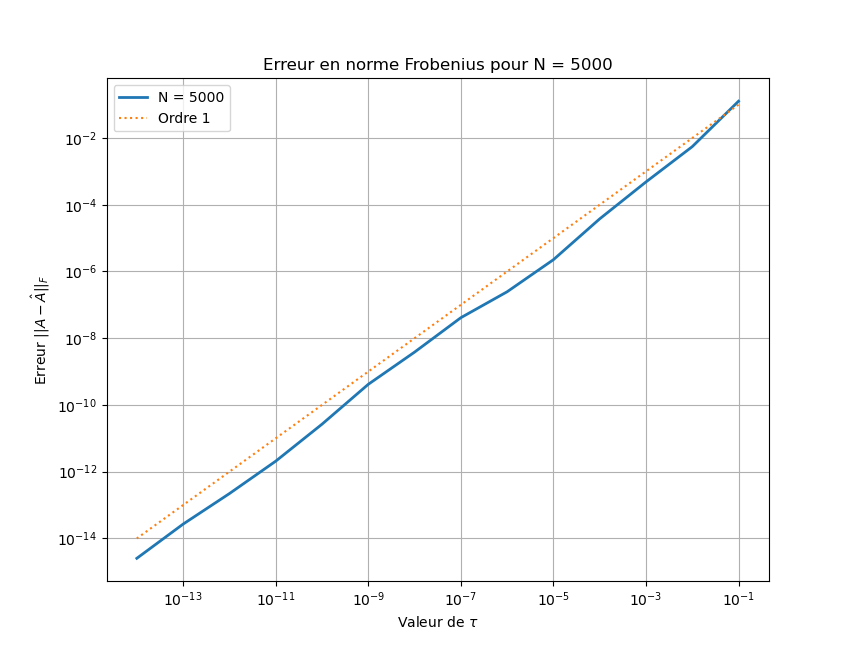
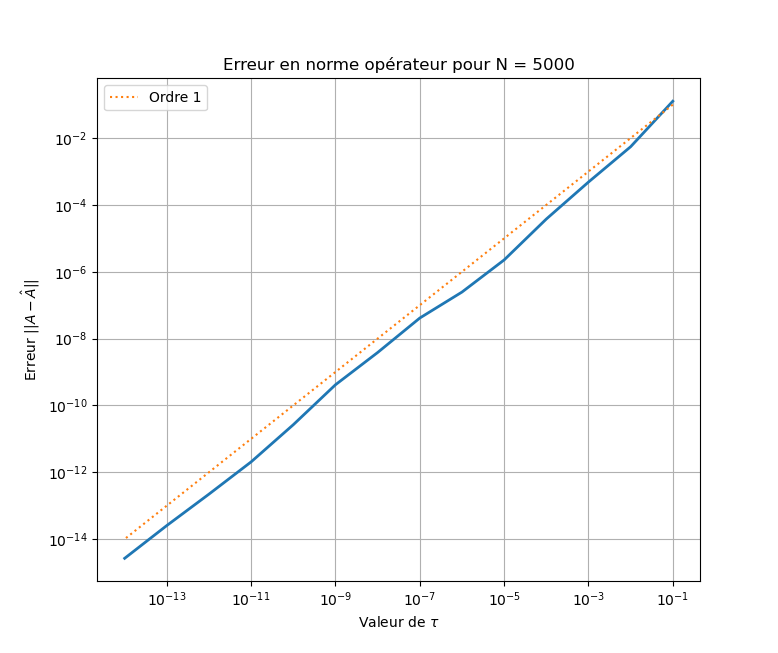
Update 04/04

diff --git a/Test/functions.py b/Test/functions.py
@@ -108,7 +108,7 @@ def init_N_vect(problem):
                         N_vect += 1
     return N_vect
 
-def init_C0(problem, A, plot=False):
+def init_C0(problem, plot=False):
     """
     Renvoie la matrice close C0
     """
@@ -145,37 +145,99 @@ def init_C0(problem, A, plot=False):
     
     return C0
 
+def init_F0(problem, plot=False):
+    """
+    Renvoie la matrice far F0
+    """
+
+    func = problem.func
+    row = problem.row_tree
+    row_far = problem.row_far
+    col = problem.col_tree
+    row_size = row.level[-1]
+    row_far_interaction = [[None for j in row_far[i]]
+                for i in range(row_size)]
+    
+    vect_row = []
+    vect_col = []
+    vect_val = []
+
+    for i in range(row_size):
+        for j in range(len(row_far[i])):
+            if row_far_interaction[i][j] is None:
+                k = row_far[i][j]
+                
+                tmp_matrix = func(row.index[i], col.index[k])
+                extract_close(row, col, i, k, tmp_matrix, 
+                              vect_row, vect_col, vect_val)
+              
+            
+    
+    F0 = csc_matrix((vect_val, (vect_row, vect_col)), shape=(N, N))
+    
+    if plot :
+        plt.spy(F0.toarray())
+        plt.title(f"Squelette de $C_0$ pour $N={N}$")
+        plt.show()
+    
+    return F0
+
+
 
 if __name__ == '__main__':
     
     start = time.time()
-    N = 100
+    N = 80
     ndim = 1
     #position = np.random.randn(ndim, N)
     position = np.linspace(0, 1, N)
-    position = position.reshape((N, ndim))
+    position = position.reshape((ndim, N))
     print(position.shape)
     tau = 1e-8
 
     func = particles.inv_distance
-    problem, A = init_particules_problem(position, func, block_size=2, 
+    problem, A = init_particules_problem(position, func, block_size=10, 
                                                full_matrix=True)
     
-    #print(f"\nMatrice dense : \n {A}")
-
     
-    C0 = init_C0(problem, A, plot=False)
-    #print(f"\nC0 : \n {C0.toarray()}")
     
-    fig, (ax1, ax2) = plt.subplots(1, 2)
-
-    ax1.spy(A)
-      
-    ax2.spy(C0.toarray())
-
-    #plt.title(f'Spy pour N={N}')
-
-    plt.show()
+    C0 = init_C0(problem, plot=False)
+    F0 = init_F0(problem, plot=False)
     
     print(f"\nTemps d'exécution : {time.time() - start}")
+    
+    fig = plt.figure()
+    st = fig.suptitle(r'Décomposition $A = C_0 + F_0$', fontsize="x-large")
+
+    ax1 = fig.add_subplot(211)
+    ax1.spy(A)
+    ax1.set_title(r'Matrice dense $A$')
+
+    ax1 = fig.add_subplot(223)
+    ax1.spy(C0.toarray())
+    ax1.set_title(r'$C0$')
+    
+    ax1 = fig.add_subplot(224)
+    ax1.spy(F0.toarray())
+    ax1.set_title(r'$F0$')
+    
+    fig.tight_layout()
+
+    #fig.savefig('decomp.png')
+    plt.show()
+    """
+    fig, (ax1, ax2, ax3) = plt.subplots(1, 3)
+
+    ax1.spy(A)
+    ax1.set_title(r'Matrice dense $A$')
+    
+    ax2.spy(C0.toarray())
+    ax2.set_title(r'$C0$')
+
+    ax3.spy(F0.toarray())
+    ax3.set_title(r'$F0$')
+
+    fig.suptitle(r'Décomposition $A = C_0 + F_0$')
+    plt.show()
+    """
     

diff --git a/Test/test_h2tools.py b/Test/test_h2tools.py
@@ -32,7 +32,7 @@ def err_h2(N_vec):
     
         #Initialisation du problème H2
         func = particles.inv_distance
-        problem, tree = init_particules_problem(position, func, block_size=20, 
+        problem = init_particules_problem(position, func, block_size=20, 
                                                full_matrix=False)
     
         X_err = [(1e-1 ** i) for i in range(1,15)]
@@ -50,9 +50,9 @@ def err_h2(N_vec):
     plt.loglog(X_err, X_err, ls=':', label='Ordre 1')
     plt.grid()
     plt.legend()
-    plt.title(f"Erreur en norme Frobenius pour N = {N}")
+    plt.title(f"Erreur en norme opérateur pour N = {N}")
     plt.xlabel(r"Valeur de $\tau$")
-    plt.ylabel(r"Erreur $\|\|A-\hat{A} \|\|_F$")
+    plt.ylabel(r"Erreur $\|\|A-\hat{A} \|\|$")
     plt.show()
     
 

diff --git a/README.md b/README.md
@@ -21,9 +21,15 @@ Un tutoriel est (en cours) disponible dans le rapport de ce stage.
 
 ## Analyse de l'approximation numérique par matrice $\mathcal{H} ^ 2$
 
-On peut tout d'abord se demander si la package $h2tools$ approche correctement les matrices denses par des matrices $\mathcal{H} ^ 2$. Pour cela, on peut utiliser l'outil mis en place $.diffnorm()" qui, à l'aide d'un autre package, calcul l'erreur en norme de Frobenius :
+On peut tout d'abord se demander si la package $h2tools$ approche correctement les matrices denses par des matrices $\mathcal{H} ^ 2$. On rappelle alors la norme d'opérateur pour : 
 
-$$ \| A - \hat{A} \|_F$$
+$$\| A \| = \underset{{x \neq 0}}{\underset{\|x\| \leq 1}{\sup}} \frac{\|Ax\|}{\|x\|}$$
+
+
+
+Pour cela, on peut utiliser l'outil mis en place $.diffnorm()$ qui, à l'aide d'un autre package, calcul l'erreur :
+
+$$ \| A - \hat{A} \|$$
 
 Avec :
 * $A\in\mathcal{M}_N(\mathbb{R})$ matrice dense
@@ -119,8 +125,11 @@ $$A = C_0 + F_0$$
 
 Où $C_0$ est la matrice dite proche, et $F_0$ la matrice lointaine :
 
-![decomp](./Images/decomp.png)
+
+![decomp](./Images/C0_F0.png)
 
 La matrice $C_0$ est composée de blocs de la matrice $A$, on peut alors l'extraire directement de la matrice dense. On obtient comme squelette :
 
-![spy_C0](./Images/spy_C0.png)
+![decomp](./Images/decomp.png)
+
+On voit bien ici que $C_0$ est bien la matrice composée de blocs non-admissibles (proche de la diagonale), tandis que la matrice $F_0$ est constituée des blocs admissibles.
